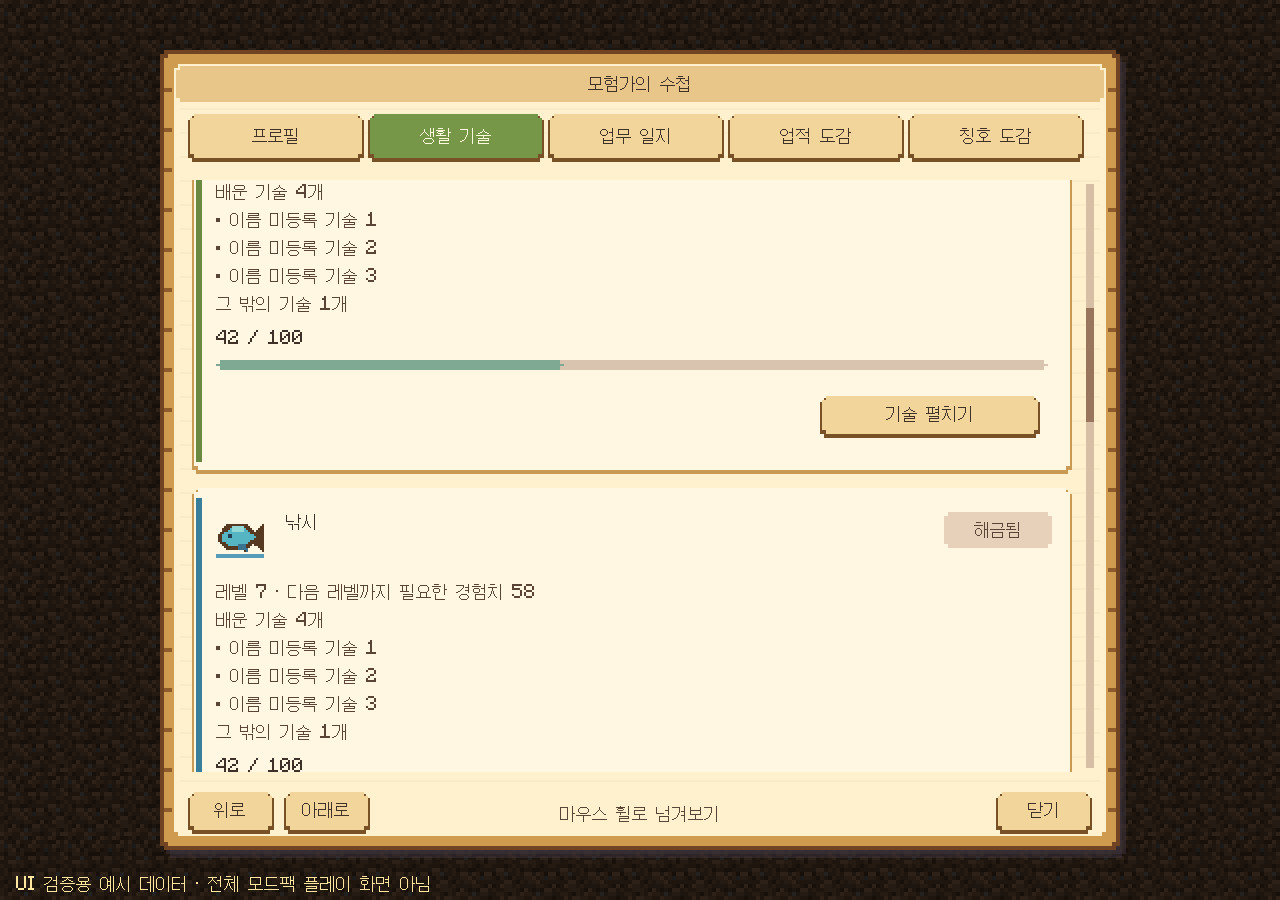
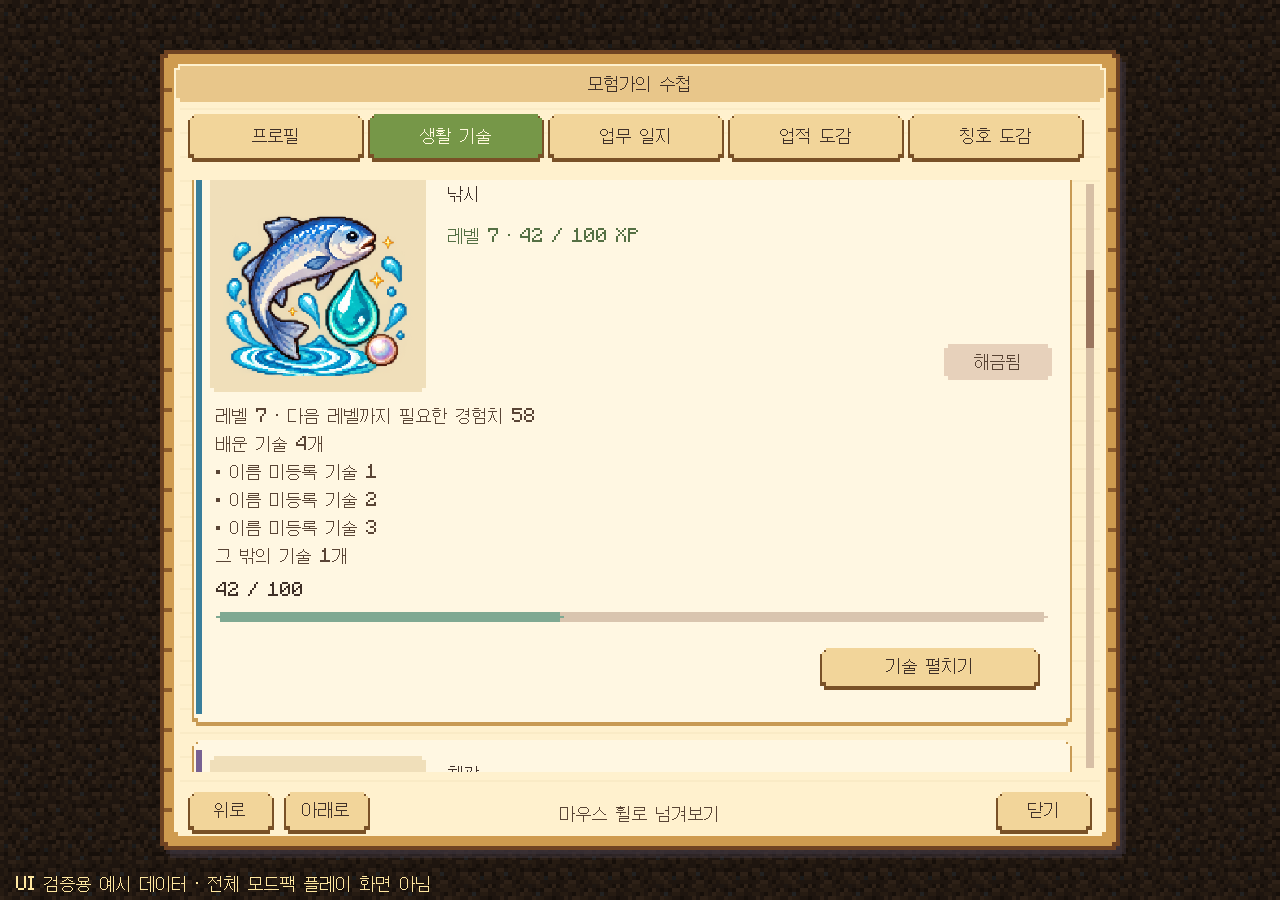
Apply approved illustrated life sections and four seasonal co-op festival cards

diff --git a/src/main/java/dev/sunlit/journal/JournalScreen.java b/src/main/java/dev/sunlit/journal/JournalScreen.java
@@ -43,10 +43,12 @@ public final class JournalScreen extends Screen {
         final String actionLabel;
         final Runnable action;
         final boolean enabled;
-        List<FormattedCharSequence> heading,lines;
+        List<FormattedCharSequence> heading,lines,captionLines;
+        String caption="";
         int height,y,bodyOffset,progressOffset,actionOffset,badgeWidth,rewardOffset,rewardHeight;
         List<TaskRewards.Display> rewards=List.of();
-        boolean section,avatar;
+        boolean section,avatar,illustrated;
+        int artSize,headerHeight;
         JournalButton button;
         Card(String title,String body,int icon,String badge,long value,long goal,String actionLabel,boolean enabled,Runnable action) {
             this.title=title;this.body=body;this.icon=icon;this.badge=badge;this.value=value;this.goal=goal;
@@ -84,9 +86,13 @@ public final class JournalScreen extends Screen {
         totalHeight=0;
         for(Card c:cards){
             c.badgeWidth=c.badge.isEmpty()?0:Math.max(54,font.width(c.badge)+16);
-            c.heading=font.split(Component.literal(c.title),Math.max(40,cardWidth-(c.section?60:57+c.badgeWidth+12)));
+            c.artSize=cardWidth<340?80:104;
+            int headingWidth=c.illustrated?cardWidth-c.artSize-40:cardWidth-(c.section?60:57+c.badgeWidth+12);
+            c.heading=font.split(Component.literal(c.title),Math.max(40,headingWidth));
             c.lines=font.split(Component.literal(c.body),cardWidth-(c.section?60:24));
-            c.bodyOffset=c.section?10+c.heading.size()*lineStep+4:10+Math.max(28,c.heading.size()*lineStep)+10;
+            c.captionLines=font.split(Component.literal(c.caption),Math.max(40,headingWidth));
+            c.headerHeight=c.illustrated?Math.max(c.artSize+20,(c.heading.size()+c.captionLines.size())*lineStep+56):0;
+            c.bodyOffset=c.illustrated?c.headerHeight:c.section?10+c.heading.size()*lineStep+4:10+Math.max(28,c.heading.size()*lineStep)+10;
             if(c.section)c.height=20+Math.max(28,c.heading.size()*lineStep+4+c.lines.size()*lineStep);
             else {
                 int cursor=c.bodyOffset+c.lines.size()*lineStep;
@@ -130,8 +136,10 @@ public final class JournalScreen extends Screen {
     private void skills(){
         var categories=data.getCompound("skillsData").getList("categories",Tag.TAG_COMPOUND);
         if(categories.isEmpty())card("생활 기술","배울 수 있는 기술이 생기면 분야별로 표시됩니다.",0,"",0,0);
-        for(int i=0;i<categories.size();i++){
-            var c=categories.getCompound(i);String id=c.getString("id"),name=SkillLabels.category(id);
+        var ordered=new ArrayList<CompoundTag>();
+        for(int i=0;i<categories.size();i++)ordered.add(categories.getCompound(i));
+        ordered.sort(Comparator.comparingInt(c->{int icon=SkillCategoryIcons.select(c.getString("id"),SkillLabels.category(c.getString("id")));return icon<=4?icon:icon>=12&&icon<=14?icon-7:15;}));
+        for(var c:ordered){String id=c.getString("id"),name=SkillLabels.category(id);
             boolean expanded=expandedSkills.contains(id);var unlocked=c.getList("skills",Tag.TAG_STRING);
             StringBuilder detail=new StringBuilder();
             if(c.getBoolean("hasXp"))detail.append("레벨 ").append(c.getInt("level")).append(" · 다음 레벨까지 필요한 경험치 ").append(Math.max(0,c.getInt("required")-c.getInt("xp"))).append("\n");
@@ -142,6 +150,8 @@ public final class JournalScreen extends Screen {
             if(shown<unlocked.size())detail.append("\n그 밖의 기술 ").append(unlocked.size()-shown).append("개");
             if(unlocked.size()>3)actionCard(name,detail.toString(),SkillCategoryIcons.select(id,name),c.getBoolean("unlocked")?"해금됨":"잠김",c.getBoolean("hasXp")?c.getInt("xp"):0,c.getBoolean("hasXp")?c.getInt("required"):0,expanded?"간단히 보기":"기술 펼치기",true,()->{if(!expandedSkills.add(id))expandedSkills.remove(id);rebuild();});
             else card(name,detail.toString(),SkillCategoryIcons.select(id,name),c.getBoolean("unlocked")?"해금됨":"잠김",c.getBoolean("hasXp")?c.getInt("xp"):0,c.getBoolean("hasXp")?c.getInt("required"):0);
+            cards.get(cards.size()-1).illustrated=true;
+            cards.get(cards.size()-1).caption=c.getBoolean("hasXp")?"레벨 "+c.getInt("level")+" · "+c.getInt("xp")+" / "+c.getInt("required")+" XP":"배운 기술 "+unlocked.size()+"개";
         }
         if(data.getCompound("skillsData").getBoolean("available"))actionCard("원본 스킬 트리","각 기술의 효과와 해금 조건을 원본 스킬 트리에서 확인하세요.",10,"",0,0,"스킬 트리 열기",true,()->request("skillsTree",""));
     }
@@ -200,11 +210,34 @@ public final class JournalScreen extends Screen {
         }
         if(!questPeriod.equals("seasonal"))return;
         var f=data.getCompound("festival");
-        if(f.getBoolean("available")){
-            String season=f.getString("season");int icon=seasonIcon(season);
-            String uuid=minecraft.player==null?"":minecraft.player.getUUID().toString();
-            card(JournalWorld.festivalName(season),"생활 활동으로 마을의 축제를 함께 준비해요.\n나의 기여 "+f.getCompound("contributions").getLong(uuid)+" · 완료되면 기여자에게 보상을 보내드려요.\n보상 · 에메랄드 16개 + 경험치 160",icon,f.getBoolean("complete")?"축제 완료":"함께해요",f.getLong("progress"),f.getLong("goal"));
-        }else section("계절 특별 업무","새로운 계절 업무가 열리면 이곳에서 확인할 수 있어요.",10);
+        String current=f.getBoolean("available")?f.getString("season"):"";
+        var seasons=new ArrayList<>(List.of("SPRING","SUMMER","AUTUMN","WINTER"));
+        if(seasons.contains(current))Collections.rotate(seasons,-seasons.indexOf(current));
+        for(String season:seasons){
+            boolean active=season.equals(current),complete=active&&f.getBoolean("complete"),participated=data.getCompound("seasons").getBoolean(season);
+            String atmosphere=switch(season){
+                case "SPRING"->"벚꽃 아래에서 새 계절의 시작을 함께 준비해요.";
+                case "SUMMER"->"푸른 물결과 별빛이 반짝이는 해변 축제를 준비해요.";
+                case "AUTUMN"->"황금빛 곡식과 풍성한 수확으로 마을을 채워요.";
+                default->"눈꽃이 내려앉은 마을에 따뜻한 온기를 나눠요.";
+            };
+            String description=atmosphere+"\n";
+            if(active){
+                String uuid=minecraft.player==null?"":minecraft.player.getUUID().toString();
+                description+="공동 목표 · 생활 활동 "+f.getLong("goal")+"회\n";
+                description+="수확·낚시·자연 광석 채광·음식 제작·동물 번식으로 기여하세요.\n";
+                description+="나의 기여 · "+f.getCompound("contributions").getLong(uuid)+"회\n";
+                description+="1회 이상 기여하고 공동 목표를 달성하면 보상을 받아요.\n처음 달성하면 ‘"+JournalWorld.seasonTitle(season)+"’ 칭호도 얻어요.";
+            }else {
+                description+=current.isEmpty()?"계절 연동이 확인되면 해당 계절의 공동 임무가 열려요.":"이 계절이 돌아오면 공동 임무가 열려요.";
+                description+="\n해당 계절에 생활 활동으로 1회 이상 기여하고 마을 공동 목표를 달성하세요.";
+                if(participated)description+="\n이 계절의 축제에 참여해 완료한 기록이 있어요.";
+            }
+            card(JournalWorld.festivalName(season),description,seasonIcon(season),active?(complete?"축제 완료":"진행 중"):"계절 대기",active?f.getLong("progress"):0,active?f.getLong("goal"):0);
+            var event=cards.get(cards.size()-1);event.illustrated=true;
+            event.caption=active?"마을 공동 목표\n"+f.getLong("progress")+" / "+f.getLong("goal")+(complete?" · 달성":""):"계절이 돌아오면 만나요";
+            event.rewards=List.of(new TaskRewards.Display("minecraft:emerald","에메랄드",16),new TaskRewards.Display("minecraft:experience_bottle","경험치",160));
+        }
     }
     private static int seasonIcon(String season){return switch(season){case "SPRING"->6;case "SUMMER"->7;case "AUTUMN"->8;default->9;};}
     private void achievements(){
@@ -263,7 +296,15 @@ public final class JournalScreen extends Screen {
     }
     private static void rounded(GuiGraphics g,int x,int y,int w,int h,int radius,int color){JournalButton.rounded(g,x,y,w,h,radius,color);}
     private void centered(GuiGraphics g,String text,int center,int y,int color){g.drawString(font,text,center-font.width(text)/2,y,color,false);}
-    private void icon(GuiGraphics g,int index,int x,int y){com.mojang.blaze3d.systems.RenderSystem.enableBlend();g.blit(new ResourceLocation(SunlitJournal.MODID,"textures/gui/badges/"+ICONS[Math.max(0,Math.min(ICONS.length-1,index))]+".png"),x,y,0,0,28,28,28,28);com.mojang.blaze3d.systems.RenderSystem.disableBlend();}
+    private static final Set<String> ILLUSTRATIONS=Set.of("farming","fishing","mining","cooking","ranching","exploration","life","books","spring","summer","autumn","winter");
+    private void art(GuiGraphics g,int index,int x,int y,int size){
+        String name=ICONS[Math.max(0,Math.min(ICONS.length-1,index))];
+        com.mojang.blaze3d.systems.RenderSystem.enableBlend();
+        if(ILLUSTRATIONS.contains(name))g.blit(new ResourceLocation(SunlitJournal.MODID,"textures/gui/illustrations/"+name+".png"),x,y,size,size,0,0,256,256,256,256);
+        else g.blit(new ResourceLocation(SunlitJournal.MODID,"textures/gui/badges/"+name+".png"),x,y,size,size,0,0,28,28,28,28);
+        com.mojang.blaze3d.systems.RenderSystem.disableBlend();
+    }
+    private void icon(GuiGraphics g,int index,int x,int y){art(g,index,x,y,28);}
     @Override public void render(GuiGraphics g,int mx,int my,float delta){
         renderBackground(g);
         rounded(g,left+3,top+4,panelWidth,panelHeight,15,0x803E353D);
@@ -306,7 +347,10 @@ public final class JournalScreen extends Screen {
             }
             int[] accents={0xFF68893F,0xFF397E9B,0xFF776192,0xFFC17A32,0xFF93734A,0xFFB78E39,0xFFB85E7E,0xFF557DA4,0xFFA57834,0xFF4F8795,0xFF826899,0xFF8C6940,0xFFAC653A,0xFF6F8B4C,0xFF5369A0,0xFF78664B};
             g.fill(x+2,y+5,x+5,y+c.height-5,accents[Math.max(0,Math.min(c.icon,accents.length-1))]);
-            icon(g,c.icon,x+10,y+10);
+            if(c.illustrated){
+                rounded(g,x+9,y+8,c.artSize+4,c.artSize+4,3,0xFFF0DFBA);
+                art(g,c.icon,x+11,y+10,c.artSize);
+            }else icon(g,c.icon,x+10,y+10);
             if(c.section){
                 int textY=y+10;
                 for(var line:c.heading){g.drawString(font,line,x+47,textY,TEXT,false);textY+=lineStep;}
@@ -314,12 +358,17 @@ public final class JournalScreen extends Screen {
                 for(var line:c.lines){g.drawString(font,line,x+47,textY,MUTED,false);textY+=lineStep;}
                 continue;
             }
-            int headingY=y+13;
-            for(var line:c.heading){g.drawString(font,line,x+47,headingY,TitleThemes.known(c.title)?TitleThemes.color(c.title,false):TEXT,false);headingY+=lineStep;}
+            int headingY=y+13,headingX=x+(c.illustrated?c.artSize+24:47);
+            for(var line:c.heading){g.drawString(font,line,headingX,headingY,TitleThemes.known(c.title)?TitleThemes.color(c.title,false):TEXT,false);headingY+=lineStep;}
+            if(c.illustrated){
+                int cy=headingY+7;
+                for(var line:c.captionLines){g.drawString(font,line,headingX,cy,0xFF557044,false);cy+=lineStep;}
+            }
             if(!c.badge.isEmpty()){
                 boolean done=c.badge.equals("획득")||c.badge.equals("수령 완료")||c.badge.equals("장착 중");
-                rounded(g,x+cardWidth-c.badgeWidth-10,y+12,c.badgeWidth,18,7,done?0xFFD1E0C5:0xFFE7D1BB);
-                centered(g,c.badge,x+cardWidth-10-c.badgeWidth/2,y+17,done?0xFF305439:MUTED);
+                int badgeY=y+(c.illustrated?c.headerHeight-32:12);
+                rounded(g,x+cardWidth-c.badgeWidth-10,badgeY,c.badgeWidth,18,7,done?0xFFD1E0C5:0xFFE7D1BB);
+                centered(g,c.badge,x+cardWidth-10-c.badgeWidth/2,badgeY+5,done?0xFF305439:MUTED);
             }
             int textY=y+c.bodyOffset;
             for(var line:c.lines){g.drawString(font,line,x+12,textY,MUTED,false);textY+=lineStep;}

diff --git a/tools/visual-preview/JournalVisualPreview.java b/tools/visual-preview/JournalVisualPreview.java
@@ -12,7 +12,7 @@ import java.util.concurrent.CompletableFuture;
 public class JournalVisualPreview {
     private static int stage=-1,ticks;
     private static CompletableFuture<Void> reloading;
-    private static final String[] PAGES={"profile","skills","quests","achievements","titles","quests","achievements","skills","achievements","quests","quests","quests","skills","quests","quests"};
+    private static final String[] PAGES={"profile","skills","quests","achievements","titles","quests","achievements","skills","achievements","quests","quests","quests","skills","quests","quests","skills","skills","skills","skills","skills","skills","skills","skills","quests","quests","quests","quests","quests","quests","skills","quests"};
     private static CompoundTag data(){
         var d=new CompoundTag();d.putString("username","Sunlit");d.putString("nickname","햇살");d.putBoolean("nickAvailable",true);
         d.putInt("level",7);d.putInt("levelRequired",21);d.putFloat("levelProgress",.4f);var titles=new CompoundTag();titles.putString("owned","새싹농부|꼬마낚시꾼|벚꽃요정");titles.putString("equipped","새싹농부");d.put("titles",titles);
@@ -32,7 +32,12 @@ public class JournalVisualPreview {
     }
     private static CompoundTag stageData(){
         var d=data();
-        if(stage==11)d.remove("festival");
+        if(stage==11||stage==27)d.remove("festival");
+        if(stage>=15&&stage<=22||stage==29){
+            String category=stage==29?"farming":new String[]{"farming","fishing","mining","cooking","husbandry","exploration","life","books"}[stage-15];
+            var list=new ListTag();for(var tag:d.getCompound("skillsData").getList("categories",Tag.TAG_COMPOUND)){var c=(CompoundTag)tag;if(c.getString("id").equals("society:"+category))list.add(c.copy());}d.getCompound("skillsData").put("categories",list);
+        }
+        if(stage>=23&&stage<=26||stage==28||stage==30){var f=d.getCompound("festival");f.putString("season",stage>=28?"WINTER":new String[]{"SPRING","SUMMER","AUTUMN","WINTER"}[stage-23]);if(stage==28||stage==30){f.putBoolean("complete",true);f.putLong("progress",f.getLong("goal"));}}
         if(stage==13){var t=d.getCompound("daily").getCompound("0");t.putInt("kind",0);t.putString("subject","minecraft:carrots");}
         return d;
     }
@@ -44,18 +49,21 @@ public class JournalVisualPreview {
         var mc=Minecraft.getInstance();
         if(stage==-1){if(!(mc.screen instanceof TitleScreen))return;mc.options.languageCode="ko_kr";mc.getLanguageManager().setSelected("ko_kr");reloading=mc.reloadResourcePacks();stage=-2;return;}
         if(stage==-2){if(!reloading.isDone())return;
-            if(java.util.Set.of(SkillCategoryIcons.select("society:exploration","탐험"),SkillCategoryIcons.select("society:life","생활 기술"),SkillCategoryIcons.select("society:books","서적")).size()!=3)throw new IllegalStateException("Category icons collide");stage=0;ticks=0;mc.options.guiScale().set(2);mc.resizeDisplay();mc.setScreen(new JournalScreen(data(),PAGES[stage]));return;}
+            if(java.util.Set.of(SkillCategoryIcons.select("society:exploration","탐험"),SkillCategoryIcons.select("society:life","생활 기술"),SkillCategoryIcons.select("society:books","서적")).size()!=3)throw new IllegalStateException("Category icons collide");stage=Boolean.getBoolean("sunlit.artOnlyPreview")?15:0;ticks=0;mc.options.guiScale().set(2);mc.resizeDisplay();mc.setScreen(new JournalScreen(stageData(),PAGES[stage]));return;}
         if(stage>=PAGES.length)return;
         if(mc.getOverlay()!=null){ticks=0;return;}
         if(++ticks<40)return;
-        Screenshot.grab(new java.io.File(System.getProperty("sunlit.previewOutput","../validation")),"cards-"+stage+"-"+PAGES[stage]+".png",mc.getMainRenderTarget(),c->{});
+        String file=stage<15?"cards-"+stage+"-"+PAGES[stage]:stage<=22?"art-skill-"+new String[]{"farming","fishing","mining","cooking","ranching","exploration","life","books"}[stage-15]:stage<=26?"art-festival-"+new String[]{"spring","summer","autumn","winter"}[stage-23]:"art-state-"+stage;
+        Screenshot.grab(new java.io.File(System.getProperty("sunlit.previewOutput","../validation")),file+".png",mc.getMainRenderTarget(),c->{});
         if(++stage>=PAGES.length){mc.stop();return;}ticks=0;
-        if(stage==7||stage==9){mc.options.guiScale().set(2);mc.resizeDisplay();}
+        if(stage==15){org.lwjgl.glfw.GLFW.glfwSetWindowSize(mc.getWindow().getWindow(),1280,900);}
+        if(stage==7||stage==9||stage==15){mc.options.guiScale().set(2);mc.resizeDisplay();}
         if(stage==14){org.lwjgl.glfw.GLFW.glfwSetWindowSize(mc.getWindow().getWindow(),960,720);mc.options.guiScale().set(3);mc.resizeDisplay();}
+        if(stage==29){org.lwjgl.glfw.GLFW.glfwSetWindowSize(mc.getWindow().getWindow(),960,720);mc.options.guiScale().set(3);mc.resizeDisplay();}
         if(stage==5){mc.options.guiScale().set(3);mc.resizeDisplay();}
         var screen=new JournalScreen(stageData(),PAGES[stage]);mc.setScreen(screen);
         if(stage==9){press(screen,"주간 업무");screen.update(stageData());}
-        if(stage==10||stage==11)press(screen,"계절 특별 업무");
+        if(stage==10||stage==11||stage>=23&&stage!=29)press(screen,"계절 특별 업무");
         if(stage==12)screen.mouseScrolled(screen.width/2,screen.height/2,-10);
         if(stage==7){for(var child:screen.children())if(child instanceof JournalButton b&&b.getMessage().getString().equals("기술 펼치기")){b.onPress();break;}}
         if(stage==3||stage==6||stage==8){int pw=Math.min(480,screen.width-12),ph=Math.min(400,screen.height-12),left=(screen.width-pw)/2,top=(screen.height-ph)/2,w=(pw-28)/8;int filter=stage==3?7:stage==8?6:3;screen.mouseClicked(left+14+filter*w+5,top+68,0);}

diff --git a/tools/slice_journal_art.py b/tools/slice_journal_art.py
@@ -1,0 +1,16 @@
+"""Mechanical atlas slicing only. Artwork is generated from the approved reference.
+No background removal, recolouring or creative pixel edits are performed here.
+"""
+from pathlib import Path
+from PIL import Image
+root=Path(__file__).resolve().parents[1]
+atlas=Image.open(root/'tools/art-sources/life-and-seasons.png').convert('RGBA')
+names=['farming','fishing','mining','cooking','ranching','exploration','life','books','spring','summer','autumn','winter']
+out=root/'src/main/resources/assets/sunlit_journal_core/textures/gui/illustrations';out.mkdir(parents=True,exist_ok=True)
+for i,name in enumerate(names):
+ col,row=i%4,i//4
+ # The exported sheet has short gutters between rows. Exclude neighbouring silhouettes.
+ top,bottom=[(0,350),(356,684),(690,1024)][row]
+ tile=atlas.crop((col*atlas.width//4,top,(col+1)*atlas.width//4,bottom))
+ edge=max(tile.size);square=Image.new('RGBA',(edge,edge));square.paste(tile,((edge-tile.width)//2,(edge-tile.height)//2))
+ square.resize((256,256),Image.Resampling.NEAREST).save(out/(name+'.png'))

diff --git a/ILLUSTRATIONS_0.8.1.md b/ILLUSTRATIONS_0.8.1.md
@@ -1,0 +1,44 @@
+# 0.8.1-journal · 승인 시안 삽화 및 계절 공동 축제
+
+0.8.0에서 간단한 도트 기호로 축약했던 생활 분야 그림을 수정했습니다. 사용자 첨부 시안의 구도·소품·색감을 참고해 게임용 삽화 12종을 새로 제작했습니다. 첨부된 시안 원본을 그대로 잘라낸 이미지라고 주장하지 않습니다.
+
+## 실제 코드·리소스 변경
+
+- 농사: 밀·분홍 꽃·새싹·물방울 / 낚시: 푸른 물고기·물결·물방울·진주.
+- 채광: 구리 곡괭이·보라/파랑 수정 / 요리: 구리 냄비·스튜·나무 숟가락·허브.
+- 목축: 송아지·황금 종·클로버·꽃 / 탐험: 황동 나침반·지도·나뭇잎.
+- 생활: 자수·바느질 바구니·실타래·라벤더 / 서적: 보라색 마법책·초승달·별.
+- 각 삽화는 투명 배경의 256×256 PNG입니다. 생활 기술 카드에서는 GUI 공간에 따라 80/104픽셀 크기로 표시하고 이름·실제 레벨/경험치·해금 상태를 옆에 배치합니다. 일일/주간 업무·업적·칭호의 작은 분야 표식도 같은 그림을 사용합니다.
+- API에서 읽은 실제 카테고리만 표시하며 그림이 8종이라는 이유로 존재하지 않는 카테고리·레벨을 추가하지 않습니다. 기존 확장/원본 스킬 트리 버튼을 유지합니다.
+
+## 계절 공동 축제
+
+사용자가 선택한 범위는 **기존 공동 축제부터 완성**입니다. 개인 계절 임무, 새로운 목표·보상, 뽑기 보너스는 추가하지 않습니다.
+
+| 계절 | 기존 축제 | 새 그림 |
+|---|---|---|
+| 봄 | 벚꽃 축제 | 벚꽃 가지·씨앗 봉투·새싹·꽃 바구니 |
+| 여름 | 별빛 해변 축제 | 물고기·낚싯대·조개·물결·별 등불 |
+| 가을 | 풍요의 수확제 | 수확 바구니·밀·호박·사과·단풍 |
+| 겨울 | 눈꽃 축제 | 눈꽃·전나무·따뜻한 스튜·촛불·목도리 |
+
+‘업무 일지 → 계절 특별 업무’에서 현재 축제를 먼저 표시합니다. 실제 서버의 공동 목표/진행도와 개인 기여도, 기여 조건, 달성 상태, 기존 보상(에메랄드 16 + 경험치 160)을 보여줍니다. 다른 계절은 ‘계절 대기’이며 가짜 진행도나 수령 버튼을 만들지 않습니다. 계절 API를 읽을 수 없으면 대기 안내를 표시합니다. 획득한 계절 칭호와 참여 기록은 기존 저장 데이터를 사용합니다. 총 5개 수첩 탭을 유지합니다.
+
+## 검증 및 이미지 구분
+
+- 0.8.1의 클린 빌드 성공 및 서버 GameTest 28개 전부 통과.
+- 실제 Minecraft 렌더러에서 생활 분야 8종, 계절 4종, 계절 연동 없음/축제 완료/작은 GUI 상태 4종을 별도로 촬영했습니다. 1280×900 GUI 2와 960×720 GUI 3을 포함합니다.
+- `art-skill-*.png`, `art-festival-*.png`, `art-state-*.png`는 **게임 렌더러로 실행·촬영한 UI 검증 화면**입니다. 설명과 달성 상태를 확인하기 위해 예시 서버 스냅샷 데이터를 사용했으며 화면 하단에도 이를 표시합니다. 전체 모드팩에서 실제 축제를 완료한 플레이 기록과는 다릅니다.
+- `tools/art-sources/life-and-seasons.png`는 제작한 삽화 원본 시트이며 게임 화면이 아닙니다. `tools/slice_journal_art.py`는 이 시트를 PNG 12종으로 기계적으로 분리·정사각 패딩·최근접 리사이즈합니다. 주변 그림 조각이 들어오지 않도록 행 사이 여백을 제외했습니다.
+- JAR에는 삽화 PNG 12종이 모두 포함되고 테스트용 아이템/화면 및 스킨 실행 코드는 포함되지 않습니다.
+- 전체 사용자 모드팩·실제 세이브·Serene Seasons의 실제 계절 전환까지 새로 검증한 것은 아닙니다. 실제 게임 수치는 기존 API·설정·저장 데이터를 따릅니다. 이 변경에서는 서버 임무/보상/저장 로직을 수정하지 않았습니다.
+
+## 다시 촬영하기
+
+JDK 17, X11/OpenGL, 캐시가 준비된 개발 환경에서:
+
+```sh
+./gradlew -I tools/visual-preview/art-preview.gradle runClient
+```
+
+이 도구는 배포 JAR에 포함되지 않습니다. 리소스 누락·겹침·카테고리별 외형을 확인하기 위한 예시 데이터 촬영이며 실제 모드팩 통합 검사는 별도로 필요합니다.

diff --git a/README.md b/README.md
@@ -1,8 +1,10 @@
 # Sunlit Journal
 
-Forge 1.20.1용 수첩 전용 0.8.0-journal 개발 버전입니다.
+Forge 1.20.1용 수첩 전용 0.8.1-journal 개발 버전입니다.
 프로필 / 생활 기술 / 업무 일지 / 업적 도감 / 칭호 도감의 다섯 탭을 제공합니다.
 
 현재 버전의 기능·보상·구버전 데이터 호환·빌드는 [README_JOURNAL_ONLY.md](README_JOURNAL_ONLY.md), 검증 결과와 한계는 [JOURNAL_VALIDATION.md](JOURNAL_VALIDATION.md)를 참고하세요.
 
 main 0.7.0의 스킨 공방·뽑기·뽑기권 보너스는 이 버전에서 제공하지 않습니다. 기존 아이템·차원 ID와 원본 소유 NBT는 세이브 호환을 위해 유지합니다.
+
+0.8.1에서는 승인 시안을 참고한 생활 분야 삽화 8종과 계절 공동 축제 삽화 4종을 실제 카드에 반영했습니다. [그림·계절 이벤트 변경 및 화면 구분](ILLUSTRATIONS_0.8.1.md)을 참고하세요.

diff --git a/tools/visual-preview/README.md b/tools/visual-preview/README.md
@@ -1,3 +1,5 @@
+0.8.1: `art-preview.gradle`은 생활 분야 8종·계절 4종·대기/완료/작은 GUI 상태 4종을 개별 촬영합니다. 모두 실제 게임 렌더러 + 예시 데이터이며 `ILLUSTRATIONS_0.8.1.md`를 참고하세요.
+
 # 0.8.0-journal 현재 검사
 
 현재 배포 검증은 `JOURNAL_VALIDATION.md`를 기준으로 합니다. 아래의 스킨/하늘 정원 검사 설명은 구버전 역사 자료이며, 삭제한 실행 클래스에 의존하는 도구는 현재 빌드에서 사용하지 않습니다.

diff --git a/JOURNAL_VALIDATION.md b/JOURNAL_VALIDATION.md
@@ -1,3 +1,7 @@
+# 0.8.1-journal 추가 검증
+
+승인 시안 삽화·계절 공동 축제의 현재 결과는 [ILLUSTRATIONS_0.8.1.md](ILLUSTRATIONS_0.8.1.md)를 참고하세요. 아래 0.8.0 기록은 이전 버전의 검증 이력입니다.
+
 # 0.8.0-journal 검증 기록
 
 검증일: 2026-10-29 (한국 시간). 기준 main: `4cedc92ee1a3a20cbc5448ff6f9421aac9c5b6fb`.

diff --git a/README_JOURNAL_ONLY.md b/README_JOURNAL_ONLY.md
@@ -1,4 +1,4 @@
-# Sunlit Journal 0.8.0-journal · Forge 1.20.1
+# Sunlit Journal 0.8.1-journal · Forge 1.20.1
 
 수첩 전용 버전입니다. main 4cedc92에서 분기했으며 preview/sakura-reference의 스킨 변경은 합치지 않았습니다.
 
